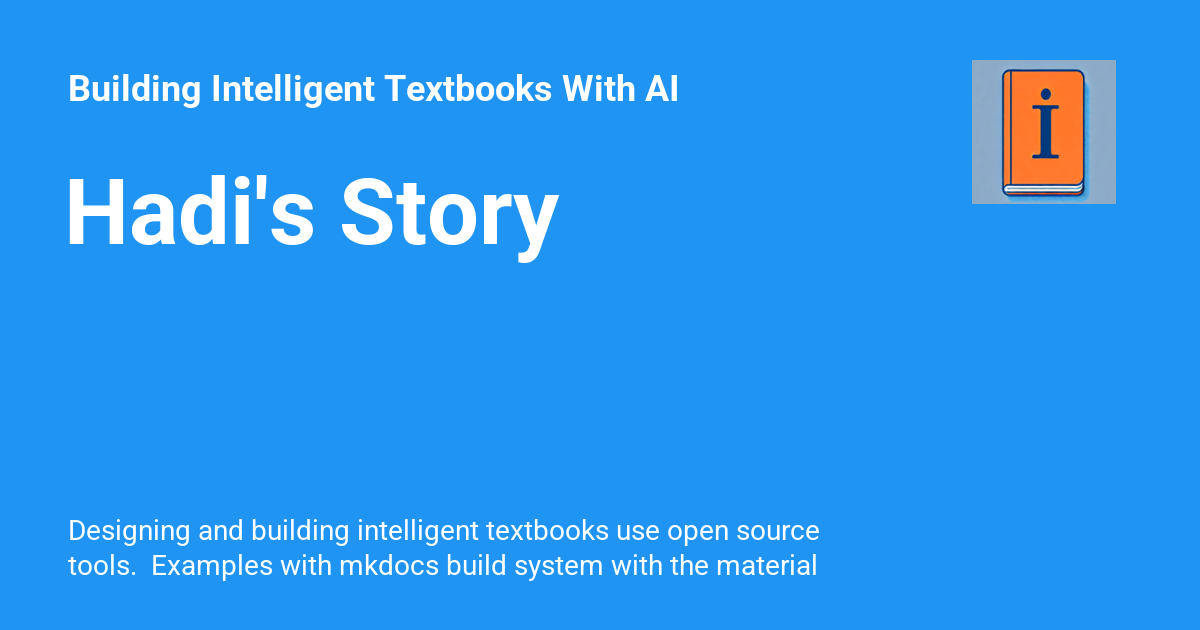
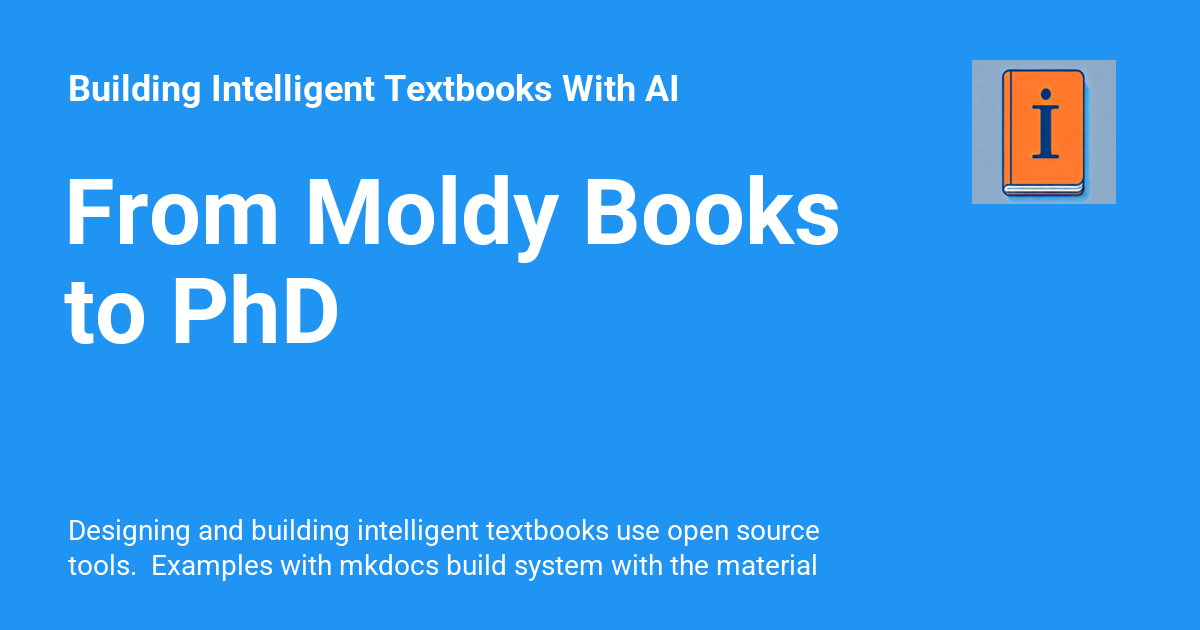
Deployed 5f9f049 with MkDocs version: 1.6.1

Changed region(s): [[0.0617, 0.2714, 0.4317, 0.3921], [0.4625, 0.2714, 0.7092, 0.3921], [0.0308, 0.4222, 0.3083, 0.5429]]

diff --git a/stories/index.html b/stories/index.html
@@ -586,7 +586,7 @@
         
   
   <span class="md-ellipsis">
-    Hadi's Story
+    From Moldy Books to PhD
   </span>
   
 
@@ -1251,7 +1251,7 @@
 
 
 <h1 id="list-of-stories">List of Stories</h1>
-<h1 id="from-moldy-books-to-a-phd-the-great-information-reincarnation"><a href="./hadis/index.md">From Moldy Books to a PhD: The Great Information Reincarnation</a></h1>
+<h1 id="from-moldy-books-to-a-phd-the-great-information-reincarnation"><a href="hadi/">From Moldy Books to a PhD: The Great Information Reincarnation</a></h1>
 <p><img alt="" src="hadi/cover.png" /></p>
 <p>Born in a humid Indonesian classroom where textbooks rotted with mold and knowledge was something borrowed rather than owned, Hadi learned early that curiosity required ingenuity, collaboration, and perseverance. From piecing together lessons across damaged pages and carefully wrapping books at home, he carried a fierce hunger for learning beyond his village, across oceans, and into the unfamiliar world of American academia, enduring isolation, exhaustion, and relentless late-night study. His journey led from graduate-school struggle to doctoral triumph and onward to leadership in a global technology company, yet his success never severed his connection to the past. Instead, it crystallized a vision: that no child should have to fight decay, scarcity, or circumstance to learn. By harnessing connectivity and intelligent textbooks, Hadi helps transform muddy paths into digital highways, ensuring that children everywhere can run toward knowledge with joy, confidence, and possibility.</p>
 
@@ -1311,13 +1311,13 @@
         
         
           
-          <a href="hadi/" class="md-footer__link md-footer__link--next" aria-label="Next: Hadi&#39;s Story">
+          <a href="hadi/" class="md-footer__link md-footer__link--next" aria-label="Next: From Moldy Books to PhD">
             <div class="md-footer__title">
               <span class="md-footer__direction">
                 Next
               </span>
               <div class="md-ellipsis">
-                Hadi's Story
+                From Moldy Books to PhD
               </div>
             </div>
             <div class="md-footer__button md-icon">

diff --git a/stories/hadi/index.html b/stories/hadi/index.html
@@ -26,7 +26,7 @@
     
     
       
-        <title>Hadi's Story - Building Intelligent Textbooks With AI</title>
+        <title>From Moldy Books to PhD - Building Intelligent Textbooks With AI</title>
       
     
     
@@ -73,7 +73,7 @@
       
         <meta  property="og:type"  content="website" >
       
-        <meta  property="og:title"  content="Hadi's Story - Building Intelligent Textbooks With AI" >
+        <meta  property="og:title"  content="From Moldy Books to PhD - Building Intelligent Textbooks With AI" >
       
         <meta  property="og:description"  content="Designing and building intelligent textbooks use open source tools.  Examples with mkdocs build system with the material theme." >
       
@@ -89,7 +89,7 @@
       
         <meta  name="twitter:card"  content="summary_large_image" >
       
-        <meta  name="twitter:title"  content="Hadi's Story - Building Intelligent Textbooks With AI" >
+        <meta  name="twitter:title"  content="From Moldy Books to PhD - Building Intelligent Textbooks With AI" >
       
         <meta  name="twitter:description"  content="Designing and building intelligent textbooks use open source tools.  Examples with mkdocs build system with the material theme." >
       
@@ -149,7 +149,7 @@
         <div class="md-header__topic" data-md-component="header-topic">
           <span class="md-ellipsis">
             
-              Hadi's Story
+              From Moldy Books to PhD
             
           </span>
         </div>
@@ -595,7 +595,7 @@
           
   
   <span class="md-ellipsis">
-    Hadi's Story
+    From Moldy Books to PhD
   </span>
   
 
@@ -606,7 +606,7 @@
         
   
   <span class="md-ellipsis">
-    Hadi's Story
+    From Moldy Books to PhD
   </span>
   
 

diff --git a/workflow/index.html b/workflow/index.html
@@ -1745,7 +1745,7 @@
       <nav class="md-footer__inner md-grid" aria-label="Footer" >
         
           
-          <a href="../stories/hadi/" class="md-footer__link md-footer__link--prev" aria-label="Previous: Hadi&#39;s Story">
+          <a href="../stories/hadi/" class="md-footer__link md-footer__link--prev" aria-label="Previous: From Moldy Books to PhD">
             <div class="md-footer__button md-icon">
               
               <svg xmlns="http://www.w3.org/2000/svg" viewBox="0 0 24 24"><path d="M20 11v2H8l5.5 5.5-1.42 1.42L4.16 12l7.92-7.92L13.5 5.5 8 11z"/></svg>
@@ -1755,7 +1755,7 @@
                 Previous
               </span>
               <div class="md-ellipsis">
-                Hadi's Story
+                From Moldy Books to PhD
               </div>
             </div>
           </a>
